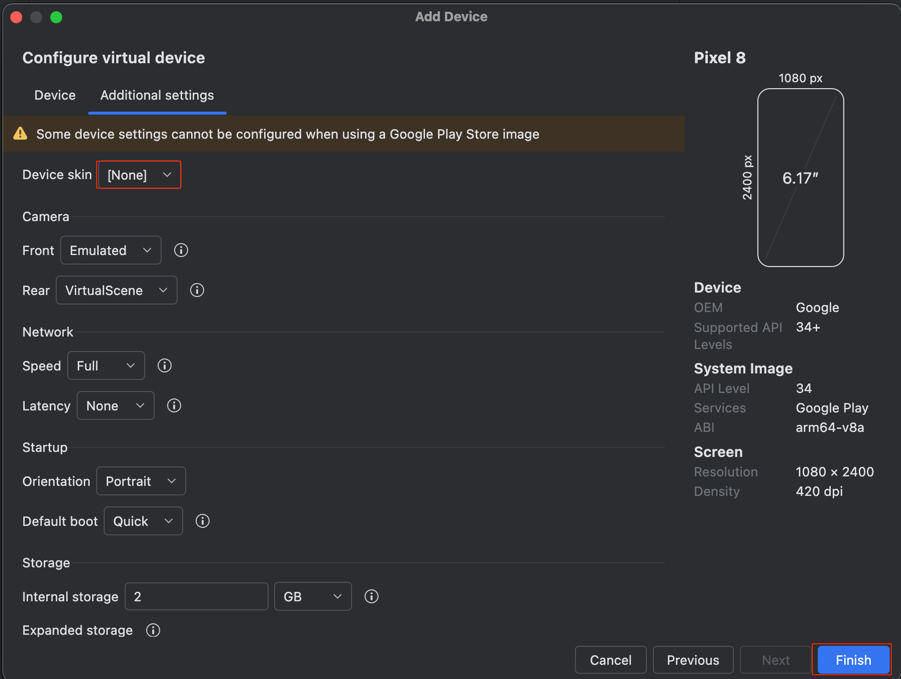
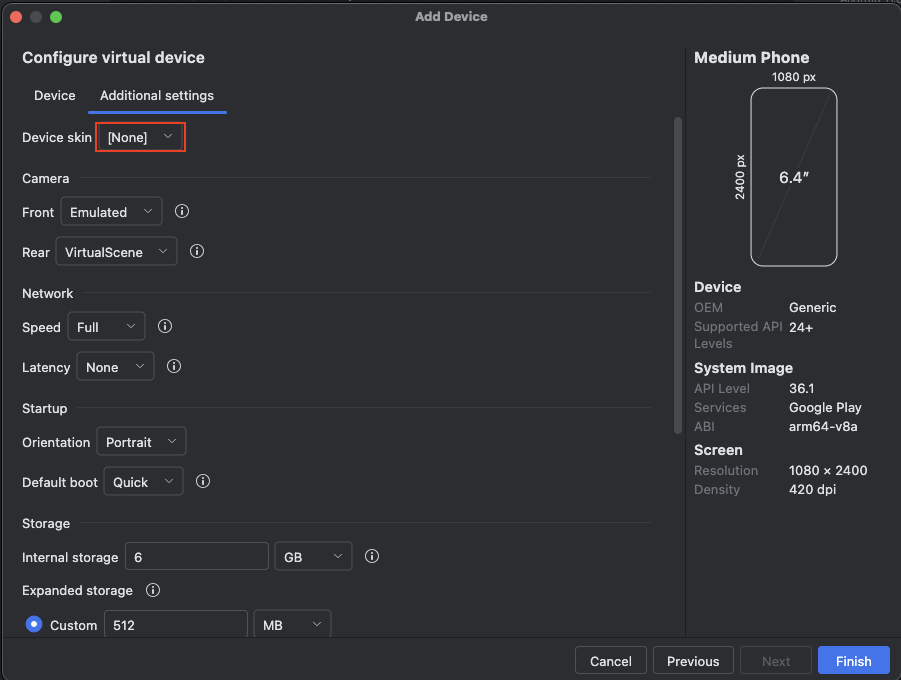
Document Update quick-start.md quick-start_ja.md

diff --git a/doc/markdown/quick-start.md b/doc/markdown/quick-start.md
@@ -160,13 +160,6 @@ export PATH=$ANDROID_SDK_ROOT/emulator:$ANDROID_SDK_ROOT/tools:$ANDROID_SDK_ROOT
 
 **Note:** Execute log out/log in to take effect above settings.
 
-#### Example
-
-```
-export ANDROID_SDK_ROOT=/home/$USER/Android/Sdk
-export PATH=$ANDROID_SDK_ROOT/emulator:$ANDROID_SDK_ROOT/tools:$ANDROID_SDK_ROOT/platform-tools:$PATH
-```
-
 ## Setting up AVD (Android Virtual Device)
 
 ### Create AVD for demo
@@ -175,9 +168,9 @@ export PATH=$ANDROID_SDK_ROOT/emulator:$ANDROID_SDK_ROOT/tools:$ANDROID_SDK_ROOT
 2. Select menu `Tools > Device Manager`.
 3. Click `[+]` and select `Create Virtual Device`. <br>
    ![](classic/_images/create_avd_1.png)
-4. Select `Pixcel 8` and click `Next`.<br>
+4. Select `Medium Phone` and click `Next`.<br>
    ![](classic/_images/create_avd_2.png)
-5. Set fields.<br>**Name** `Pixel 8(Android 14)`<br>**API** `API 34 "UpsideDownCake", Android 14.0`<br>**Services**
+5. Set fields.<br>**Name** `Medium(Android 16)`<br>**API** `API 36.1 "Baklava", Android 16.0`<br>**Services**
    `Google Play Store`<br>**System Image** (Select the item)<br>
    ![](classic/_images/create_avd_3.png)
 6. Click `Additional settings`. <br>Set **Device skin** `[None]`. <br>Click `Finish`.<br>

diff --git a/doc/markdown/quick-start_ja.md b/doc/markdown/quick-start_ja.md
@@ -172,9 +172,9 @@ export PATH=$ANDROID_SDK_ROOT/emulator:$ANDROID_SDK_ROOT/tools:$ANDROID_SDK_ROOT
 2. メニューから`Tools > Device Manager`を選択します。
 3. `[+]`をクリックして`Create Virtual Device`を選択します。<br>
    ![](classic/_images/create_avd_1.png)
-4. `Pixcel 8`を選択し`Next`をクリックします。<br>
+4. `Medium Phone`を選択し`Next`をクリックします。<br>
    ![](classic/_images/create_avd_2.png)
-5. 項目を設定します。<br>**Name** `Pixel 8(Android 14)`<br>**API** `API 34 "UpsideDownCake", Android 14.0`<br>
+5. 項目を設定します。<br>**Name** `Medium(Android 16)`<br>**API** `API 36.1 "Baklava", Android 16.0`<br>
    **Services** `Google Play Store`<br>**System Image** (アイテムを選択します)<br>
    ![](classic/_images/create_avd_3.png)
 6. `Additional settings`をクリックします。 <br>**Device skin** を`[None]`に設定します。 <br>`Finish`をクリックします。<br>
